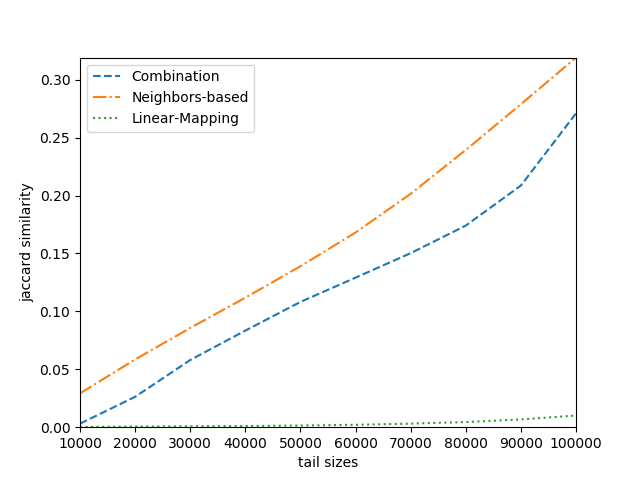
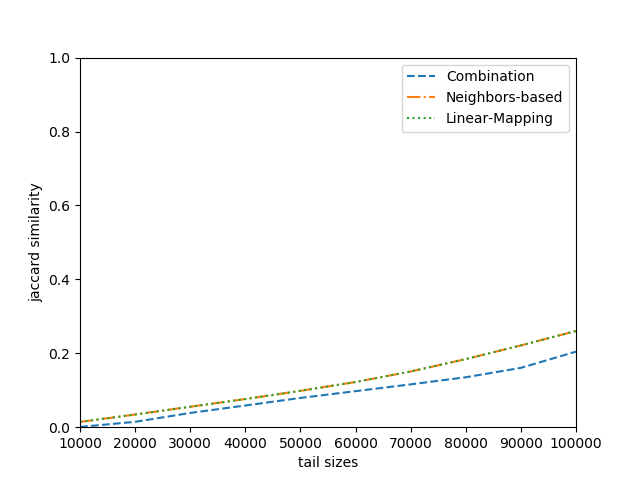
added separate code for running on octopus + updated results to include stability for 2000-2008

diff --git a/semantic_shifts/words_are_malleable_stability/evaluate_stability_octopus.py b/semantic_shifts/words_are_malleable_stability/evaluate_stability_octopus.py
@@ -9,8 +9,8 @@ from scipy import stats
 import numpy as np
 import matplotlib.pyplot as plt
 import seaborn as sns
-import pandas as pd
 import csv
+import pandas as pd
 
 
 def mkdir(folder):
@@ -242,7 +242,7 @@ def get_ranks(stability_combined, stability_neighbors, stability_linear):
     # get the rankings per value for the combined
     rank = 1
     for i in range(1, len(values_combined[1:]) + 1):
-        if round(values_combined[i], 5) == round(values_combined[i - 1], 5):
+        if round(values_combined[i], 8) == round(values_combined[i - 1], 8):
             ranks_combined.append(rank)
         else:
             rank += 1
@@ -359,12 +359,12 @@ def perform_paired_t_test(ranks_comb, ranks_neigh, ranks_lin, save_dir, file_nam
 
 
 if __name__ == '__main__':
-    path1 = 'E:/fasttext_embeddings/ngrams4-size300-window5-mincount100-negative15-lr0.001/ngrams4-size300-window5-mincount100-negative15-lr0.001/'
-    path2 = 'E:/fasttext_embeddings/assafir/'
+    path1 = '/scratch/7613491_hkg02/political_discourse_mining_hiyam/Train_Word_Embedidng/fasttext/nahar/SGNS/ngrams4-size300-window5-mincount100-negative15-lr0.001/'
+    path2 = '/scratch/7613491_hkg02/political_discourse_mining_hiyam/Train_Word_Embedidng/fasttext/assafir/SGNS/ngrams4-size300-window5-mincount100-negative15-lr0.001/'
 
-    with open('../input/keywords.txt', 'r', encoding='utf-8') as f:
+    with open('input/keywords.txt', 'r', encoding='utf-8') as f:
         words = f.readlines()
-    dir_name_matrices = 'E:/fasttext_embeddings/results/nahar_2007_assafir_2007/linear_numsteps70000/matrices/'
+
     words = [w[:-1] for w in words if '\n' in w]
     print(words)
 
@@ -385,15 +385,27 @@ if __name__ == '__main__':
 
     main_path = '/scratch/7613491_hkg02/political_discourse_mining_hiyam/semantic_shifts_modified/results/'
     paths = [
-        'E:/fasttext_embeddings/results/nahar_2000_assafir_2000/t1k100/',
-        'E:/fasttext_embeddings/results/nahar_2001_assafir_2001/t1k100/',
-        'E:/fasttext_embeddings/results/nahar_2002_assafir_2002/t1k100/',
-        'E:/fasttext_embeddings/results/nahar_2003_assafir_2003/t1k100/',
-        'E:/fasttext_embeddings/results/nahar_2004_assafir_2004/t1k100/',
-        'E:/fasttext_embeddings/results/nahar_2005_assafir_2005/t1k100/',
-        'E:/fasttext_embeddings/results/nahar_2006_assafir_2006/t1k100/',
-        'E:/fasttext_embeddings/results/nahar_2007_assafir_2007/t1k100/',
-        'E:/fasttext_embeddings/results/nahar_2008_assafir_2008/t1k100/',
+        main_path + 'nahar_2000_assafir_2000/t1k100/',
+        main_path + 'nahar_2001_assafir_2001/t1k100/',
+        main_path + 'nahar_2002_assafir_2002/t1k100/',
+        main_path + 'nahar_2003_assafir_2003/t1k100/',
+        main_path + 'nahar_2004_assafir_2004/t1k100/',
+        main_path + 'nahar_2005_assafir_2005/t1k100/',
+        main_path + 'nahar_2006_assafir_2006/t1k100/',
+        main_path + 'nahar_2007_assafir_2007/t1k100/',
+        main_path + 'nahar_2008_assafir_2008/t1k100/',
+    ]
+
+    dir_name_matrices_paths = [
+        main_path + 'nahar_2000_assafir_2000/linear_numsteps70000/matrices/',
+        main_path + 'nahar_2001_assafir_2001/linear_numsteps70000/matrices/',
+        main_path + 'nahar_2002_assafir_2002/linear_numsteps70000/matrices/',
+        main_path + 'nahar_2003_assafir_2003/linear_numsteps70000/matrices/',
+        main_path + 'nahar_2004_assafir_2004/linear_numsteps70000/matrices/',
+        main_path + 'nahar_2005_assafir_2005/linear_numsteps70000/matrices/',
+        main_path + 'nahar_2006_assafir_2006/linear_numsteps70000/matrices/',
+        main_path + 'nahar_2007_assafir_2007/linear_numsteps70000/matrices/',
+        main_path + 'nahar_2008_assafir_2008/linear_numsteps70000/matrices/',
     ]
 
     stability_dicts_combined = []
@@ -413,8 +425,6 @@ if __name__ == '__main__':
             with open(dict_combined, 'rb') as handle:
                 stabilities_comb = pickle.load(handle)
                 stability_dicts_combined.append(stabilities_comb)
-                # get_stability_words(stabilities, words)
-                # get_heads_tails(stabilities, n=50)
             print('================================================================')
 
         if os.path.exists(dict_neighbor):
@@ -424,8 +434,6 @@ if __name__ == '__main__':
                 stabilities_neigh = pickle.load(handle)
                 stabilities_neigh = filter_stability_neighbors(stabilities_neigh, stabilities_comb)
                 stability_dicts_neighbor.append(stabilities_neigh)
-                # get_stability_words(stabilities, words)
-                # get_heads_tails(stabilities, n=50)
             print('================================================================')
 
         if os.path.exists(dict_linear):
@@ -437,50 +445,50 @@ if __name__ == '__main__':
                 stability_dicts_linear.append(stabilities_lin)
             print('================================================================')
 
-        # model1 = fasttext.load_model(os.path.join(path1, '{}.bin'.format(years[i])))
-        # model2 = fasttext.load_model(os.path.join(path2, '{}.bin'.format(years[i])))
+        model1 = fasttext.load_model(os.path.join(path1, '{}.bin'.format(years[i])))
+        model2 = fasttext.load_model(os.path.join(path2, '{}.bin'.format(years[i])))
+
+        for w in words:
+            # viewpoint 1
+            get_contrastive_viewpoint_summary(w, n=25, k=100, model1=model1, model2=model2,
+                                              mat_name='trans', dir_name_matrices=dir_name_matrices_paths[i],
+                                              save_dir=results_dir+'summaries/{}/'.format(fig_name_general_prefix + str(years[i])),
+                                              file_name='{}'.format(w),
+                                              viewpoint=1, thresh=0.6)
+            # viewpoint 2
+            get_contrastive_viewpoint_summary(w, n=25, k=100, model1=model1, model2=model2,
+                                              mat_name='trans', dir_name_matrices=dir_name_matrices_paths[i],
+                                              save_dir=results_dir + 'summaries/{}/'.format(fig_name_general_prefix + str(years[i])),
+                                              file_name='{}'.format(w),
+                                              viewpoint=2, thresh=0.6)
+            print('///////////////////////////////////////////////////////////////////')
+
+        # ranks_comb, ranks_neigh, ranks_lin = get_ranks(stability_combined=stabilities_comb,
+        #                                                stability_neighbors=stabilities_neigh,
+        #                                                stability_linear=stabilities_lin)
+        # # paired two tail t-test
+        # perform_paired_t_test(ranks_comb, ranks_neigh, ranks_lin, save_dir=results_dir + 'significance/',
+        #                       file_name=fig_name_general_prefix + str(years[i]))
         #
-        # for w in words:
-        #     # viewpoint 1
-        #     get_contrastive_viewpoint_summary(w, n=25, k=100, model1=model1, model2=model2,
-        #                                       mat_name='trans', dir_name_matrices=dir_name_matrices,
-        #                                       save_dir=results_dir+'summaries/{}/'.format(fig_name_general_prefix),
-        #                                       file_name='{}'.format(w),
-        #                                       viewpoint=1, thresh=0.6)
-        #     # viewpoint 2
-        #     get_contrastive_viewpoint_summary(w, n=25, k=100, model1=model1, model2=model2,
-        #                                       mat_name='trans', dir_name_matrices=dir_name_matrices,
-        #                                       save_dir=results_dir + 'summaries/{}/'.format(fig_name_general_prefix),
-        #                                       file_name='{}'.format(w),
-        #                                       viewpoint=1, thresh=0.6)
-        #     print('///////////////////////////////////////////////////////////////////')
+        # # delta of the ranks between neighbors and linear vs. combination
+        # plot_delta_ranks_words(ranks_comb, ranks_neigh, ranks_lin, words,
+        #                        save_dir=results_dir, fig_name=fig_name_prefixes[i])
+        #
+        # save_heads_tails_all(stabilities_comb=stabilities_comb, stabilities_neigh=stabilities_neigh,
+        #                      stabilities_lin=stabilities_lin, n=25, verbose=False,
+        #                      save_heads_tails=True,
+        #                      save_dir=results_dir + 'heads_tails/',
+        #                      file_name=fig_name_general_prefix + str(years[i]))
 
-        ranks_comb, ranks_neigh, ranks_lin = get_ranks(stability_combined=stabilities_comb,
-                                                       stability_neighbors=stabilities_neigh,
-                                                       stability_linear=stabilities_lin)
-        # paired two tail t-test
-        perform_paired_t_test(ranks_comb, ranks_neigh, ranks_lin, save_dir=results_dir + 'significance/',
-                              file_name=fig_name_general_prefix + str(years[i]))
-
-        # delta of the ranks between neighbors and linear vs. combination
-        plot_delta_ranks_words(ranks_comb, ranks_neigh, ranks_lin, words,
-                               save_dir=results_dir, fig_name=fig_name_prefixes[i])
-
-        save_heads_tails_all(stabilities_comb=stabilities_comb, stabilities_neigh=stabilities_neigh,
-                             stabilities_lin=stabilities_lin, n=50, verbose=False,
-                             save_heads_tails=True,
-                             save_dir=results_dir + 'heads_tails/',
-                             file_name=fig_name_general_prefix + str(years[i]))
-
-    # heatmap of stability values for each word of interest
-    generate_stability_heatmap(words, stability_dicts_combined, stability_dicts_neighbor,
-                               stability_dicts_linear,
-                               years=years,
-                               save_dir=results_dir, fig_name=fig_name_general_prefix)
-
-    # jaccard similarity between the tails of the stability dictionaries across years
-    plot_jaccard_similarity_tails(stability_dicts_combined,
-                                  stability_dicts_neighbor,
-                                  stability_dicts_linear,
-                                  n_sizes=list(range(10000, 110000, 10000)),
-                                  save_dir=results_dir, fig_name=fig_name_general_prefix)
+    # # heatmap of stability values for each word of interest
+    # generate_stability_heatmap(words, stability_dicts_combined, stability_dicts_neighbor,
+    #                            stability_dicts_linear,
+    #                            years=years,
+    #                            save_dir=results_dir, fig_name=fig_name_general_prefix)
+    #
+    # # jaccard similarity between the tails of the stability dictionaries across years
+    # plot_jaccard_similarity_tails(stability_dicts_combined,
+    #                               stability_dicts_neighbor,
+    #                               stability_dicts_linear,
+    #                               n_sizes=list(range(10000, 110000, 10000)),
+    #                               save_dir=results_dir, fig_name=fig_name_general_prefix)
